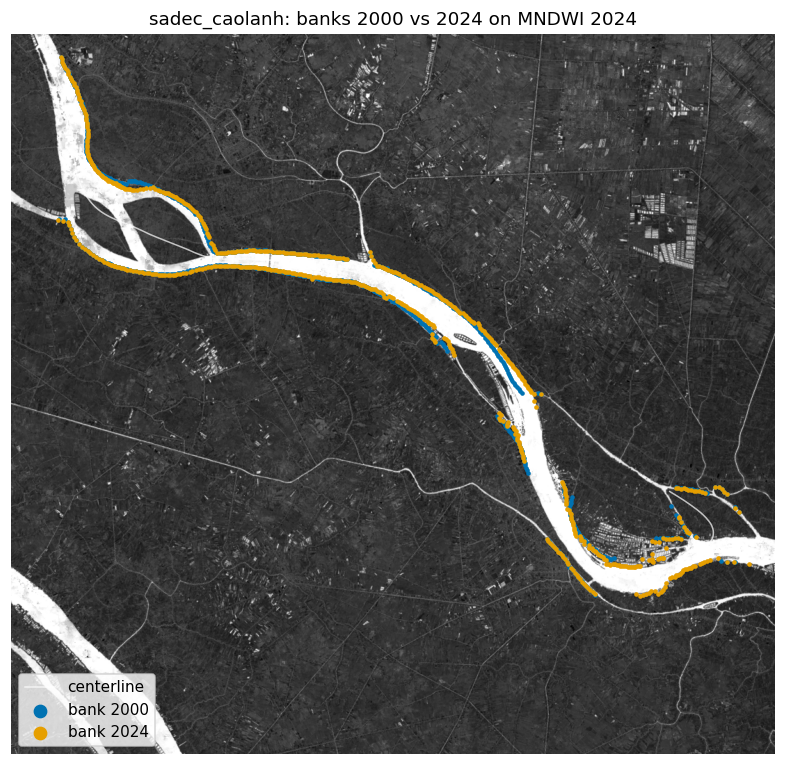
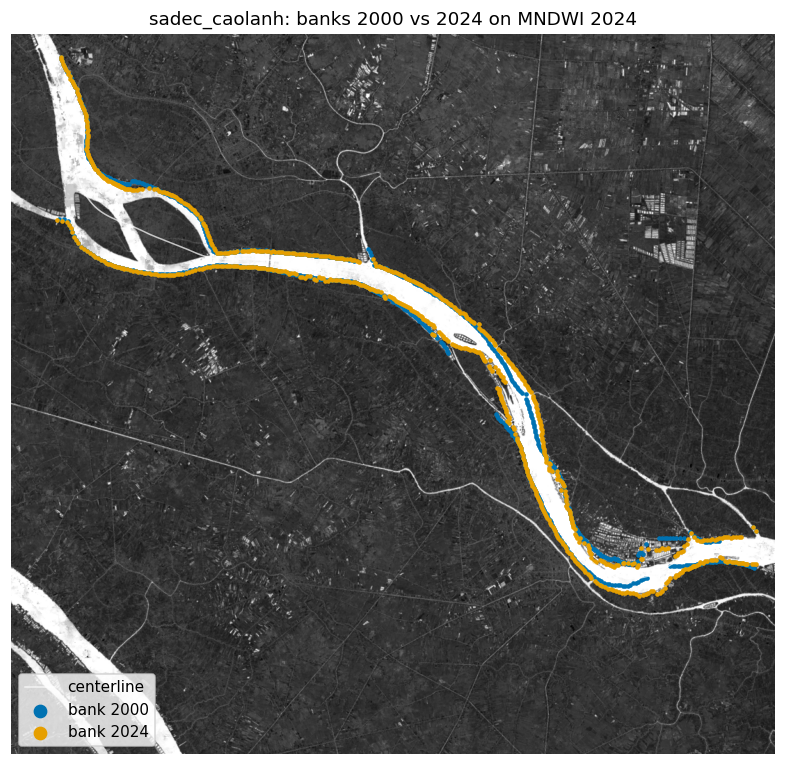
P0: fix mode jumps (drop gappy years, bridge gaps, narrow canals); SIWRR area check

diff --git a/src/banklines.py b/src/banklines.py
@@ -24,13 +24,14 @@ import rasterio
 from scipy import ndimage
 from scipy.stats import theilslopes
 from skimage.filters import threshold_otsu
-from skimage.morphology import binary_opening, disk, skeletonize
+from skimage.morphology import binary_closing, binary_opening, disk, skeletonize
 
 SPACING, HALF, STEP = 100.0, 3000.0, 5.0   # transect spacing, half-length, sample step (m)
 SMOOTH_PX = 51                              # centerline moving-average window (skeleton pixels)
 BELT_MARGIN = 500.0                         # reject banks this far beyond the belt edge (canal mouths)
 REFINE = 6                                  # samples either side of the mask edge searched for the MNDWI crossing
 JUMP = 150.0                                # year-to-year change (m) treated as a detection mode switch
+MAX_NODATA = 0.02                           # drop composites with more missing pixels than this
 MIN_YEARS = 15
 EIGHT = np.ones((3, 3), bool)
 
@@ -87,8 +88,14 @@ def main():
         a[a == -9999] = np.nan
         stack.append(a)
     stack = np.array(stack)
+    keep = np.isnan(stack).mean(axis=(1, 2)) <= MAX_NODATA   # e.g. 2012: Landsat 7 SLC-off stripes only
+    if (~keep).any():
+        print('dropped years (nodata share > %.0f%%): %s' % (100 * MAX_NODATA, years[~keep].tolist()))
+    years, stack = years[keep], stack[keep]
     thr = np.array([threshold_otsu(m[np.isfinite(m)]) for m in stack])
-    main_ch = np.array([largest(np.nan_to_num(m, nan=-1) > t) for m, t in zip(stack, thr)])
+    # close 1-2 px gaps (bridges), then drop water narrower than ~150 m (canals) before picking the main body
+    main_ch = np.array([largest(binary_opening(binary_closing(np.nan_to_num(m, nan=-1) > t, disk(1)), disk(2)))
+                        for m, t in zip(stack, thr)])
 
     belt = largest(main_ch.mean(0) >= 0.5)
     belt = largest(binary_opening(ndimage.binary_fill_holes(belt), disk(4)))

diff --git a/results/p0/sadec_caolanh_siwrr_check.md b/results/p0/sadec_caolanh_siwrr_check.md
@@ -1,0 +1,22 @@
+# Independent check: eroded area, left bank of the Tien River at Binh Hang Trung
+
+Reference: Đinh Quốc Phong, Lê Quản Quân, Lê Mạnh Hùng (2022). Xử lý khẩn cấp hạn chế sạt lở bờ tả sông Tiền
+thuộc xã Bình Hàng Trung, huyện Cao Lãnh, tỉnh Đồng Tháp. Tạp chí KH&CN Thủy lợi 72, Table 1 (areas from
+overlaid remote-sensing banklines 2003, 2006, 2014, 2017, 2021; exact reach extent not stated).
+https://vawr.org.vn/Upload/BaibaoKH/dinh-quoc-phong-72-2022.pdf
+
+Ours: `src/banklines.py` positions (mean of available years within ±1 yr), summed over transects
+T255-315 (6 km, 100 m spacing), area = Σ retreat × 100 m. Sensitivity to the reach window (T260-310,
+T250-330) changes each value by ≤ 3 ha.
+
+| Period | SIWRR left bank (ha) | Ours left bank, T255-315 (ha) |
+|---|---|---|
+| 2003-2006 | -30.0 | -18.8 |
+| 2006-2014 | -41.5 | -46.9 |
+| 2014-2017 | -11.5 | -14.3 |
+| 2017-2021 | -23.0 | -28.8 |
+| Total | -106.0 | -108.8 |
+
+Same temporal pattern (slowdown 2014-2017, re-acceleration 2017-2021) and near-identical total.
+Right bank does not match (SIWRR +73 ha accretion in total; ours mixed): the right side of this reach
+is the mid-channel bar / side-channel zone where bank identity changes (flagged unstable transects).
